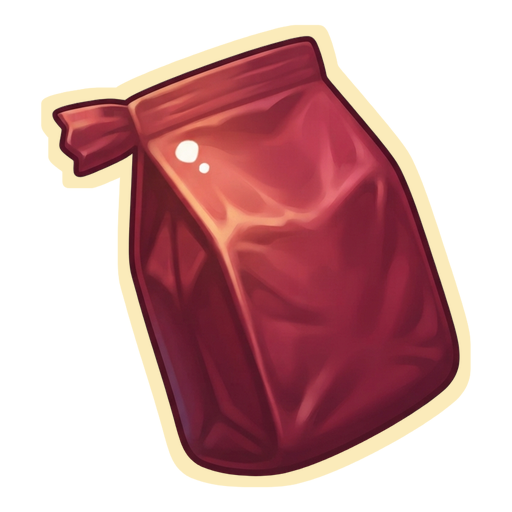
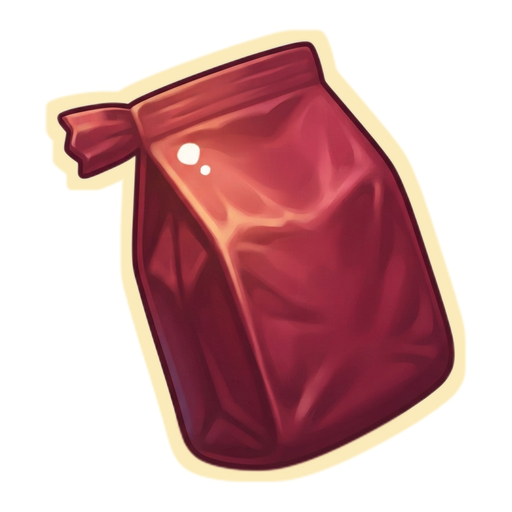
ikonka_rembg: u2net по умолчанию, без заливок; элементы меню-2 и крест-2

Changed region(s): [[0.0625, 0.0312, 0.9375, 0.9688], [0.5625, 0.7812, 0.625, 0.8125]]

diff --git a/tools/ikonka_rembg.py b/tools/ikonka_rembg.py
@@ -1,9 +1,11 @@
-"""Вырезка предмета из генерации нейросетью (rembg, BiRefNet-lite), а не по цвету.
+"""Вырезка предмета из генерации нейросетью (rembg), а не по цвету.
 
 Эвристики по цвету/оттенку/мягкости (ikonka_vyrezka.py, element_narezka.py)
 брали вместе с предметом его тень-подставку или отрезали серые детали.
 Сеть видит предмет как предмет: подставка уходит, контур целый (проверено на
-монете, баллоне, супе, реголите 2026-09-05, три модели, BiRefNet чище всех).
+монете, баллоне, супе, реголите 2026-09-05). Модель по умолчанию u2net: BiRefNet
+и isnet отрезают белые коробочки хлопка как фон; для элементов интерфейса на
+сплошном фоне BiRefNet чище по кромке (--model birefnet-general-lite).
 
     python ikonka_rembg.py <папка|файл> --out <папка> [--razmer 512] [--cvet FBEBBA] [--tolshchina 0.021]
                           [--bez-obvodki] [--model birefnet-general-lite] [--pole 0.08]
@@ -19,8 +21,10 @@ from rembg import remove, new_session
 
 def obrabotat(put, out, sess, razmer, cvet, dolya, obvodka, pole_dolya, kvadrat):
     im = Image.open(put).convert("RGB")
-    rgba = remove(im, session=sess)
-    a = np.asarray(rgba.getchannel("A"))
+    # у сети берём только маску: под альфой 0 она обнуляет и цвет, а полости
+    # силуэта нужно возвращать исходным цветом
+    maska = remove(im, session=sess, only_mask=True).convert("L")
+    rgba = im.convert("RGBA"); rgba.putalpha(maska)
     # мусор: крохи вне главного объекта — отбросить компоненты меньше 0.2% площади
     bb = rgba.getbbox()
     if bb is None:
@@ -51,7 +55,7 @@ if __name__ == "__main__":
     ap.add_argument("--razmer", type=int, default=512); ap.add_argument("--cvet", default="FBEBBA")
     ap.add_argument("--tolshchina", type=float, default=0.021)
     ap.add_argument("--bez-obvodki", action="store_true"); ap.add_argument("--ne-kvadrat", action="store_true")
-    ap.add_argument("--pole", type=float, default=0.08); ap.add_argument("--model", default="birefnet-general-lite")
+    ap.add_argument("--pole", type=float, default=0.08); ap.add_argument("--model", default="u2net", help="u2net держит белые части предметов (хлопок), birefnet-general-lite чище по кромке для элементов интерфейса")
     a = ap.parse_args()
     os.makedirs(a.out, exist_ok=True)
     sess = new_session(a.model)
